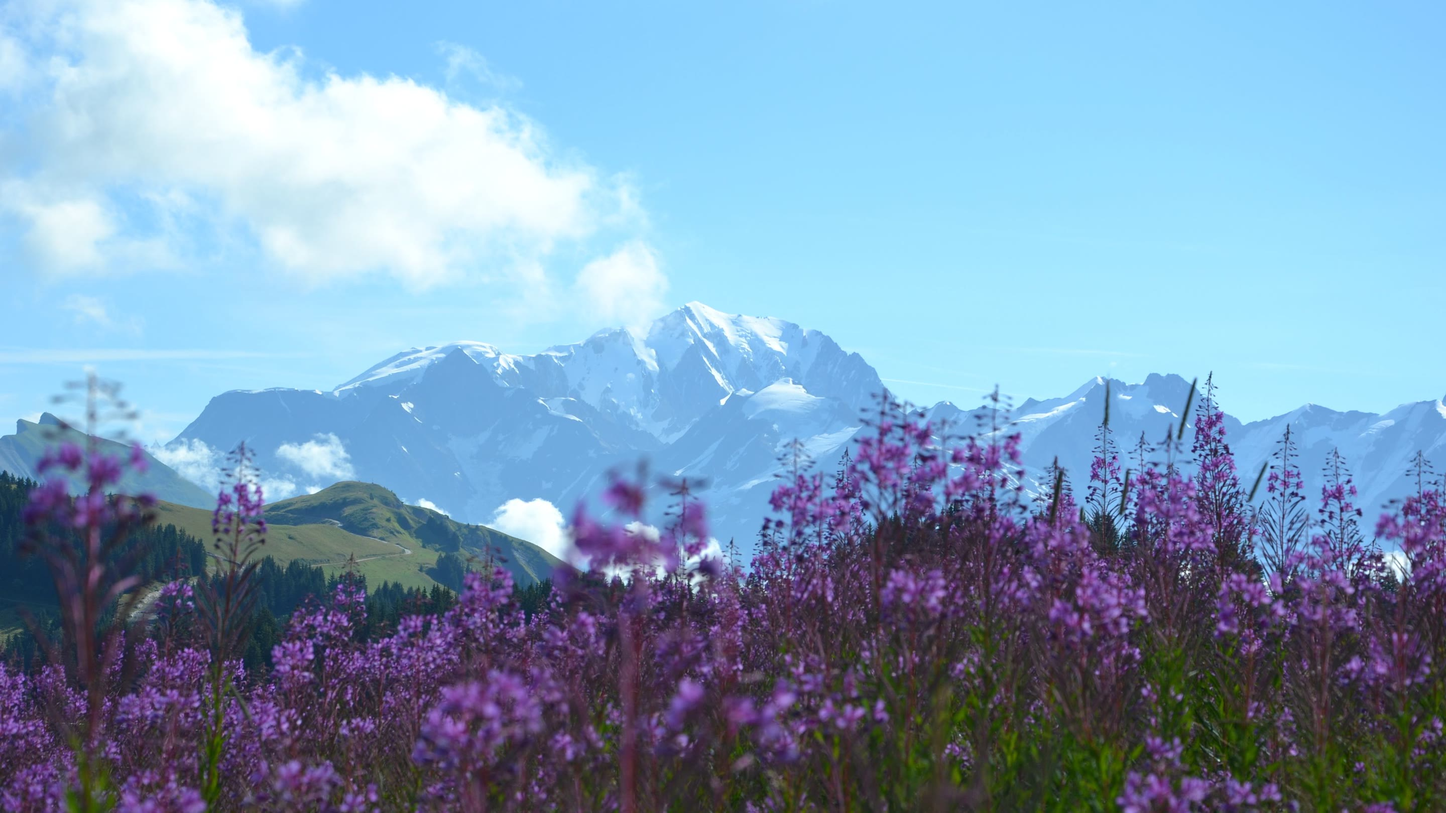
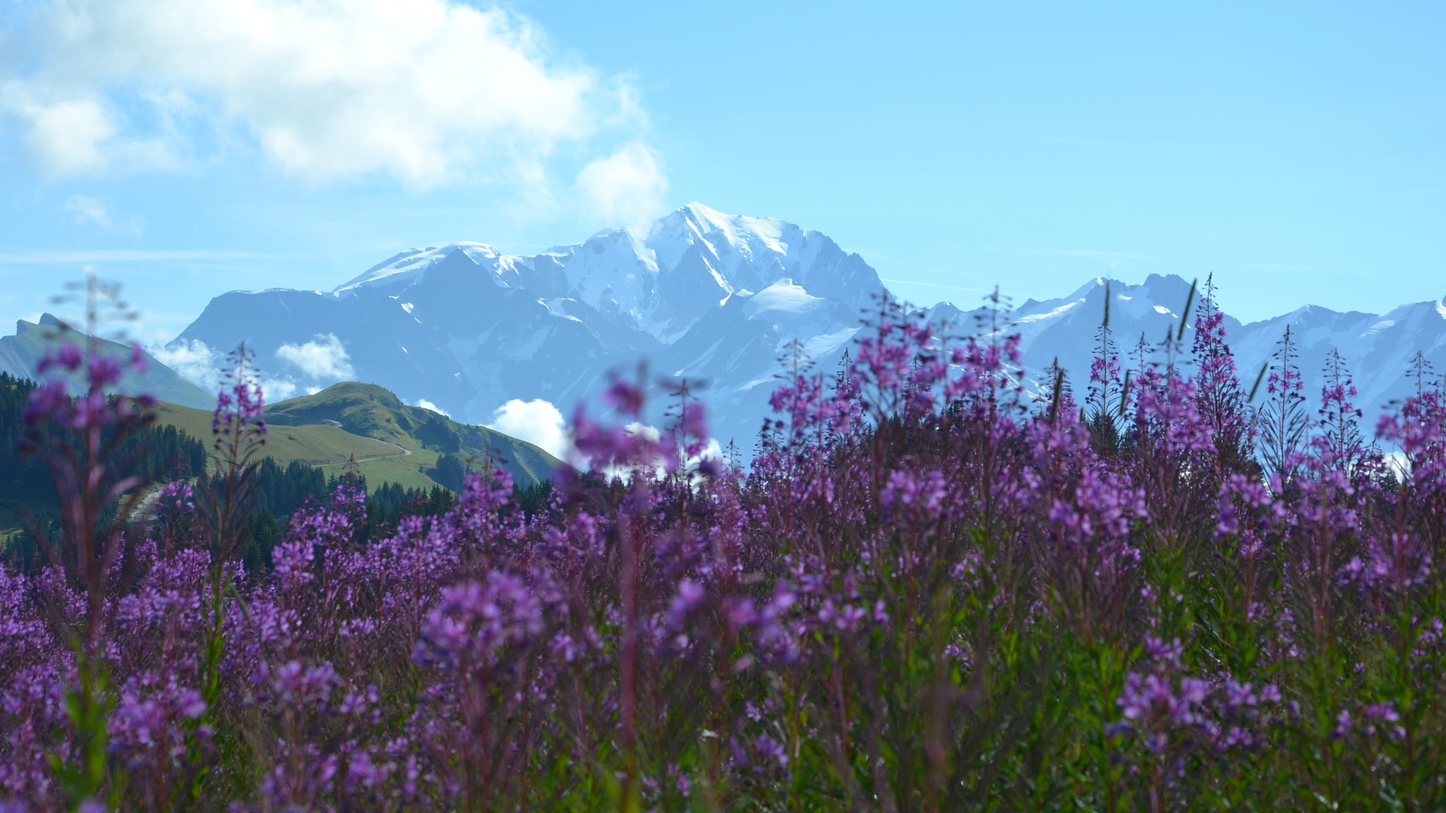
feat(site): hero editor at 80%, colour-cropped hero, mobile fallback, nav wraps
- hero editor spans 80% of the viewport with 10% either side.
- hero image re-cropped bottom-weighted: the 16:9 window now sits on the meadow and peaks
  instead of plain sky, so the fireweed frames the editor on both sides. The top scrim still
  carries the white headline over the remaining sky band.
- mobile: the editor is hidden entirely and replaced with the rendered clip + a link to
  /editor. An editable code pane is a desktop affordance; nobody types JSON on a phone, and
  it saved shipping a 1.3MB engine to one.
- nav wraps below 700px. This was a REAL pre-existing bug my Editor link made visible: the
  nav measured 484px wide in a 390px viewport and scrolled the whole page sideways. Now 0
  horizontal overflow at 390/430/640/820/1440.

The mobile fallback also caught itself: the base `.hero-mobile{display:none}` was written
AFTER its media query, so it won the specificity tie and the fallback never appeared.

diff --git a/site/app/globals.css b/site/app/globals.css
@@ -106,7 +106,7 @@ a{color:inherit;text-decoration:none}
 .hero-cta{display:flex;gap:12px;justify-content:center;flex-wrap:wrap}
 
 /* overlapping product frame */
-.hero-stage{position:relative;z-index:2;max-width:960px;margin:52px auto -190px;padding:0 26px}
+.hero-stage{position:relative;z-index:2;width:80%;max-width:none;margin:52px auto -190px;padding:0}
 /* ===== THE HERO EDITOR ======================================================================
    A real browser window running the REAL engine, with an EDITABLE code pane. Light chrome, not a
    black slab: the site is white-first, and a dark device fought everything around it. The URL is
@@ -149,10 +149,21 @@ a{color:inherit;text-decoration:none}
 .hb-meta div{display:flex;justify-content:space-between;gap:10px;border-top:1px solid #1e2836;padding-top:5px}
 .hb-meta dt{color:#5c6675}
 .hb-meta dd{color:#8fc0ff}
+.hero-mobile{display:none;border-radius:14px;overflow:hidden;background:var(--bg-2);
+  border:1px solid var(--line);box-shadow:var(--shadow-3)}
+.hero-mobile video{width:100%;display:block;aspect-ratio:16/9;object-fit:contain}
+.hero-mobile .hm-cta{display:flex;align-items:center;justify-content:space-between;gap:10px;
+  padding:11px 14px;background:#fff;border-top:1px solid var(--line);
+  font-family:var(--font-mono),monospace;font-size:12px;color:var(--muted)}
+.hero-mobile .hm-cta a{color:var(--accent);font-weight:600}
+/* mobile: an editable code pane is a desktop affordance — you are not typing JSON on a phone.
+   Hide the editor entirely and show the rendered clip instead (same scene, none of the cost). */
 @media (max-width:860px){
-  .hb-body{grid-template-columns:1fr}
-  .hb-pane{display:none}
+  .hero-browser{display:none}
+  .hero-mobile{display:block}
+  .hero-stage{width:auto;padding:0 20px;margin-bottom:-120px}
 }
+
 
 /* spacer that the frame overlaps into */
 .hero-foot{background:var(--bg);height:270px}
@@ -401,3 +412,14 @@ a{color:inherit;text-decoration:none}
 .phead-rules a:hover{text-decoration:underline}
 .phead-rules code{font-family:var(--font-mono),monospace;font-size:13px;background:var(--accent-soft);
   border:1px solid var(--accent-line);border-radius:5px;padding:1px 6px}
+
+/* The nav had no mobile treatment: at 390px it measured 484px wide and scrolled the whole page
+   sideways (adding the Editor link made a pre-existing bug visible). Let it wrap and tighten,
+   rather than hiding links behind a menu nobody opens. */
+@media (max-width:700px){
+  .bar{flex-wrap:wrap;gap:10px;padding:16px 0}
+  .nav{flex-wrap:wrap;justify-content:flex-start;gap:2px;font-size:13.5px;width:100%}
+  .nav a{padding:6px 9px}
+  .nav .ghbtn{margin-left:auto;padding:6px 10px}
+  .mark{font-size:18px}
+}

diff --git a/site/app/page.tsx b/site/app/page.tsx
@@ -52,6 +52,14 @@ export default function Home() {
         {/* THE HERO EDITOR — an editable browser running the real engine (components/HeroEditor) */}
         <div className="hero-stage pop">
           <HeroEditor />
+          {/* mobile: no code pane — you are not typing JSON on a phone. Same scene, rendered. */}
+          <figure className="hero-mobile">
+            <video src="/assets/hero.mp4" poster="/assets/hero.jpg" autoPlay loop muted playsInline />
+            <figcaption className="hm-cta">
+              <span>rendered from one JSON</span>
+              <Link href="/editor">open the editor →</Link>
+            </figcaption>
+          </figure>
         </div>
       </div>
 
